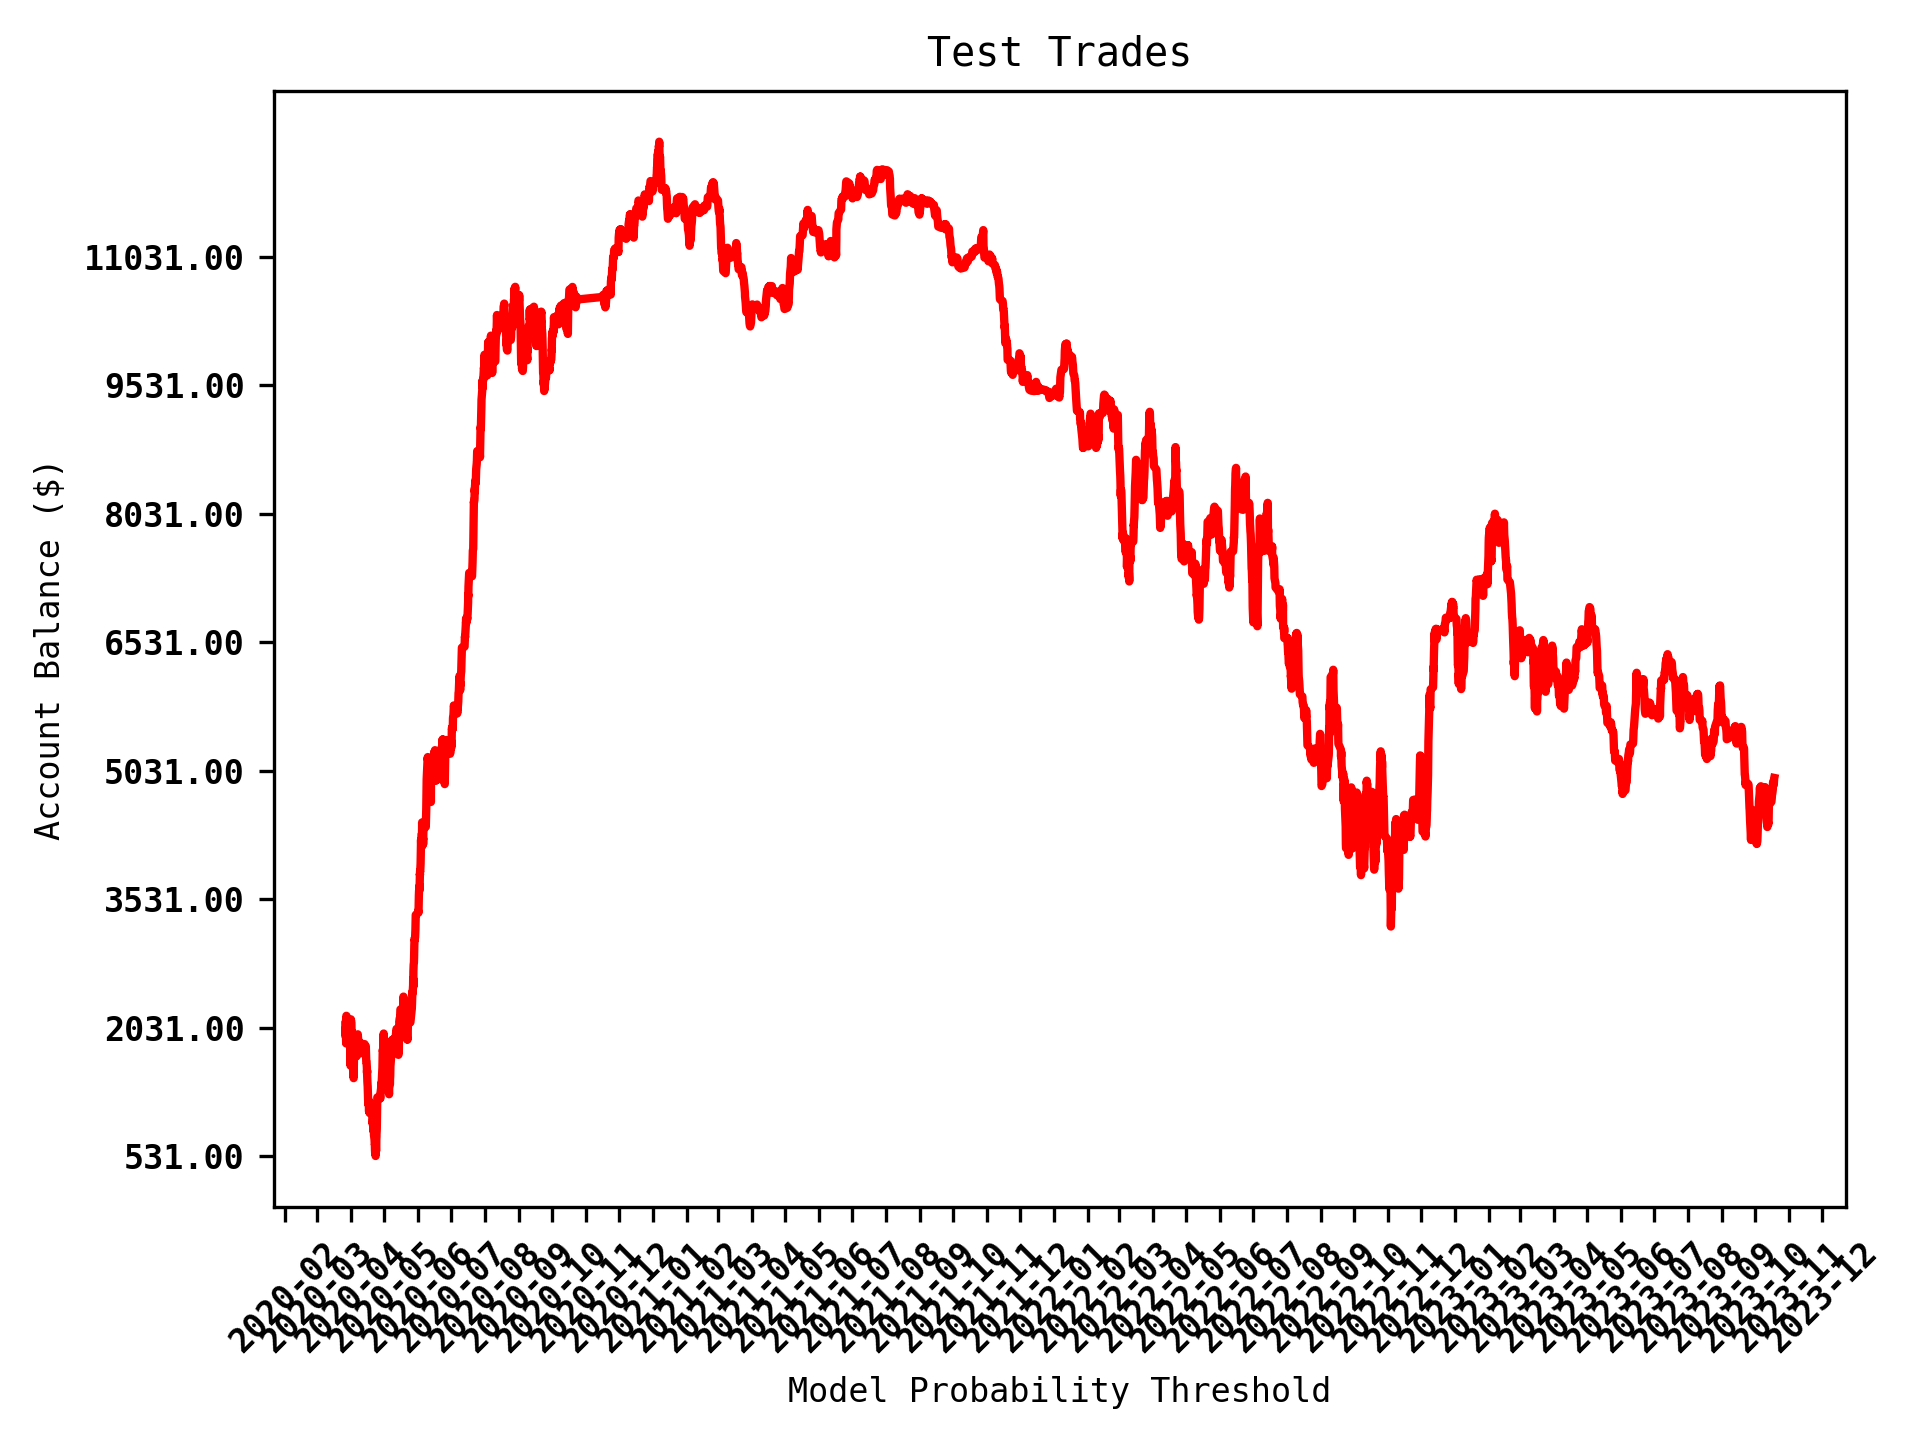
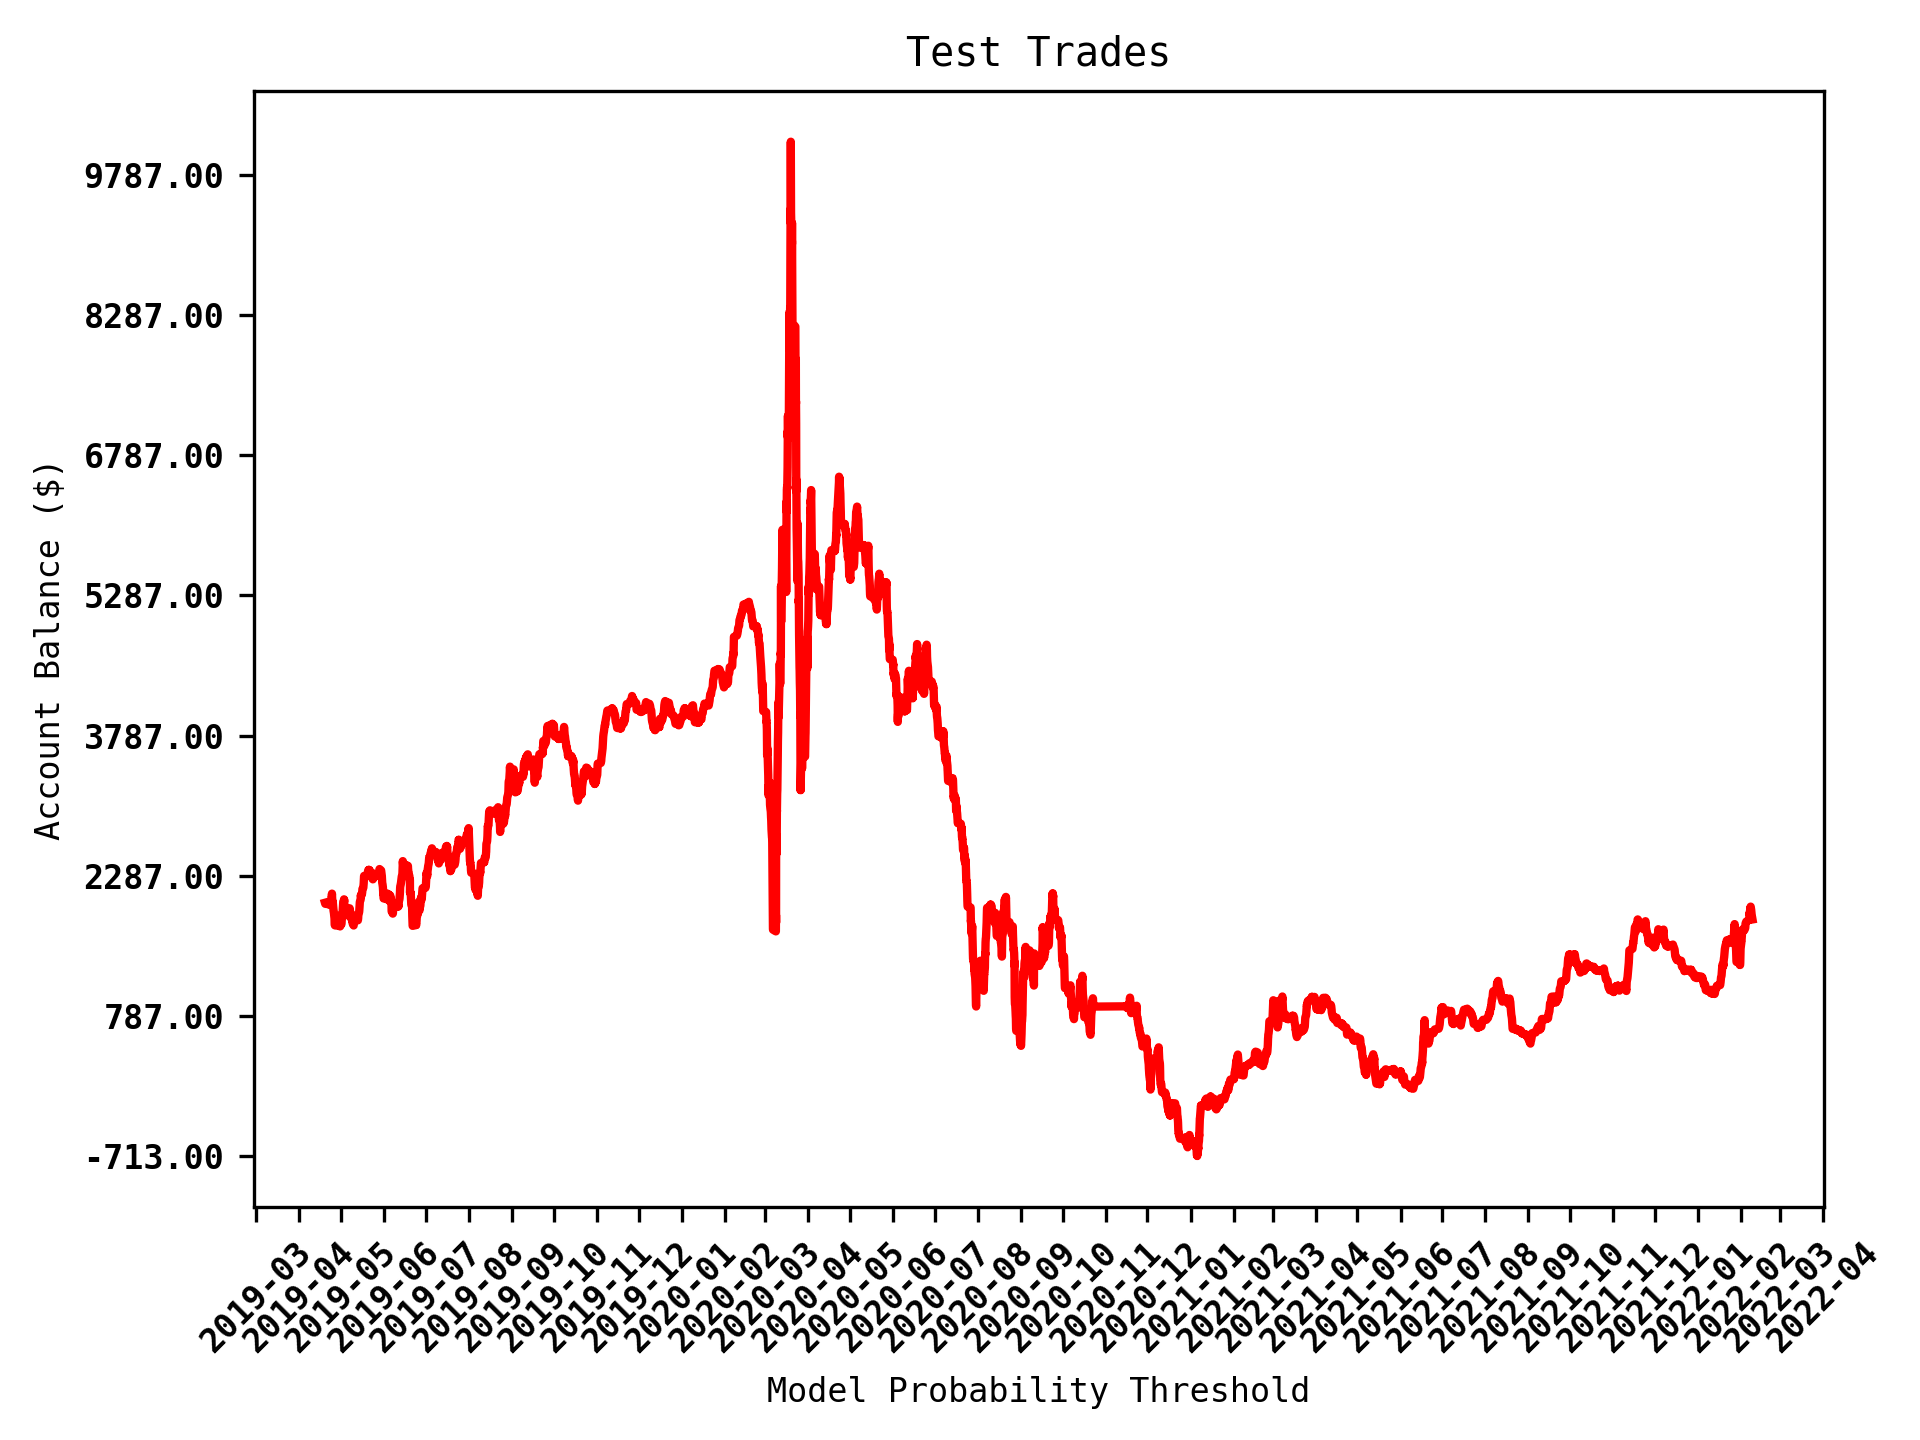
updated

diff --git a/src/assets/forex/train_matrix/crossvalidation.py b/src/assets/forex/train_matrix/crossvalidation.py
@@ -39,7 +39,7 @@ def purged_walk_forward_split_with_embargo(data, initial_train_size, test_size, 
             break
 
 '''
-def purged_walk_forward_split_with_embargo(data, initial_train_size=1, test_size=15000, gap=5, embargo_size=3):
+def purged_walk_forward_split_with_embargo(data, initial_train_size=1, test_size=10000, gap=5, embargo_size=3):
     """
     Minimal initial_train_size since you're focusing on train[-1] and test[-1].
     """
@@ -105,7 +105,7 @@ def run_split_process(data):
     train_datasets = []
     test_datasets = []
     
-    for train, test in purged_walk_forward_split_with_embargo(data, initial_train_size=1, test_size=15000, gap=5, embargo_size=3):
+    for train, test in purged_walk_forward_split_with_embargo(data, initial_train_size=1, test_size=10000, gap=5, embargo_size=3):
         #train_data = data.iloc[train]
         #test_data = data.iloc[test]
 

diff --git a/src/assets/forex/train_matrix/neural_DNN.py b/src/assets/forex/train_matrix/neural_DNN.py
@@ -78,8 +78,8 @@ def run_model(df, asset, lookback, n_components, training_cols, model_num, learn
     n_components = 17
     scaler = StandardScaler()
 
-    train_idx = train_datasets[-2]
-    test_idx = test_datasets[-2]
+    train_idx = train_datasets[-1]
+    test_idx = test_datasets[-1]
     
     print('train index', train_idx)
     print('test idx', test_idx)

diff --git a/src/assets/forex/train_matrix/trade_simulator.py b/src/assets/forex/train_matrix/trade_simulator.py
@@ -100,7 +100,7 @@ def trade_append(df, initial_balance, leverage, base_lot_size):
 
 # Main logic
 if __name__ == "__main__":
-    df = pd.read_csv('testfiles/test_result_EURUSD_0816-58.csv')
+    df = pd.read_csv('testfiles/test_result_EURUSD_0816-581.csv')
 
     # Set initial parameters
     initial_balance = 2000
